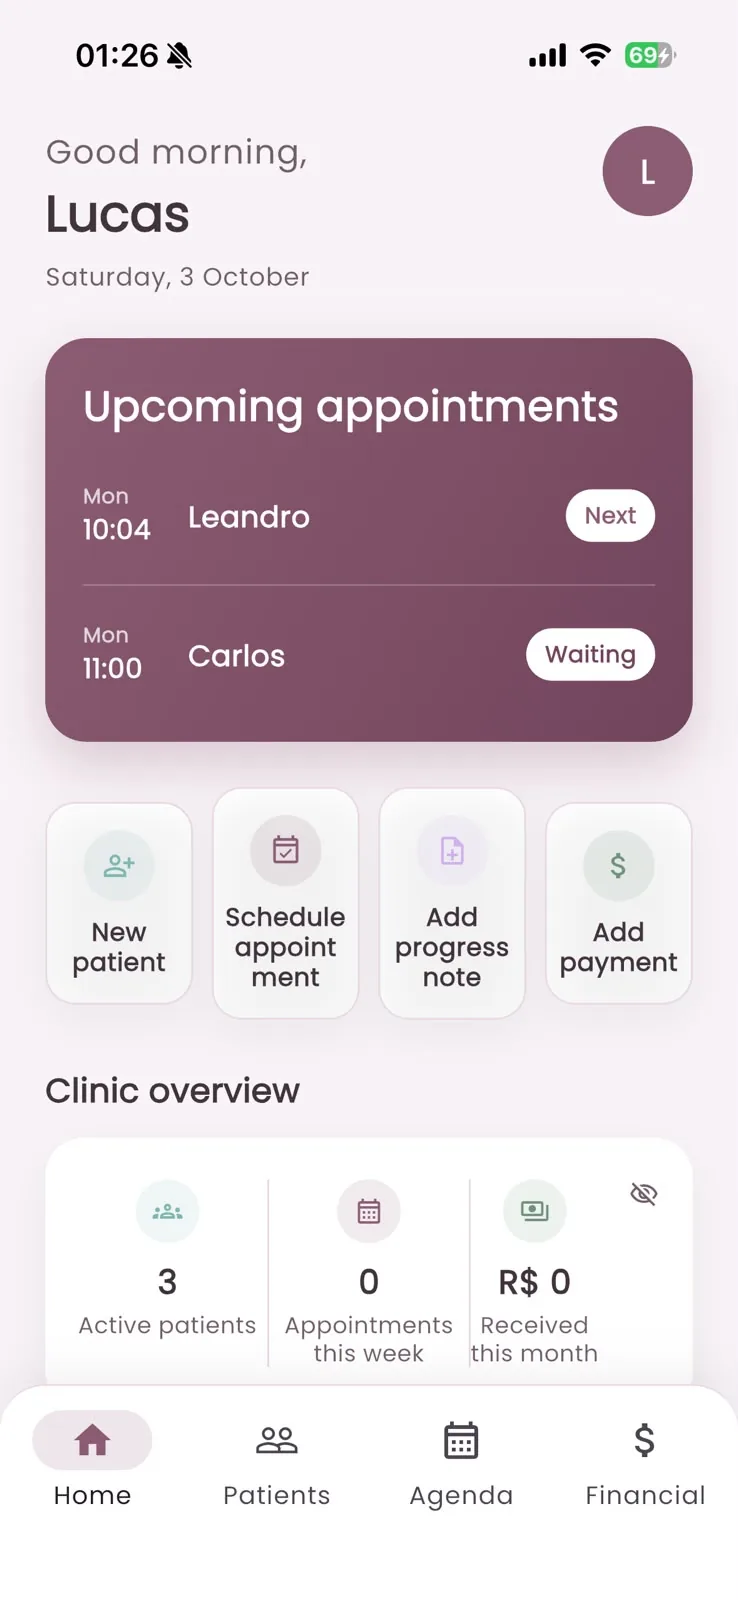
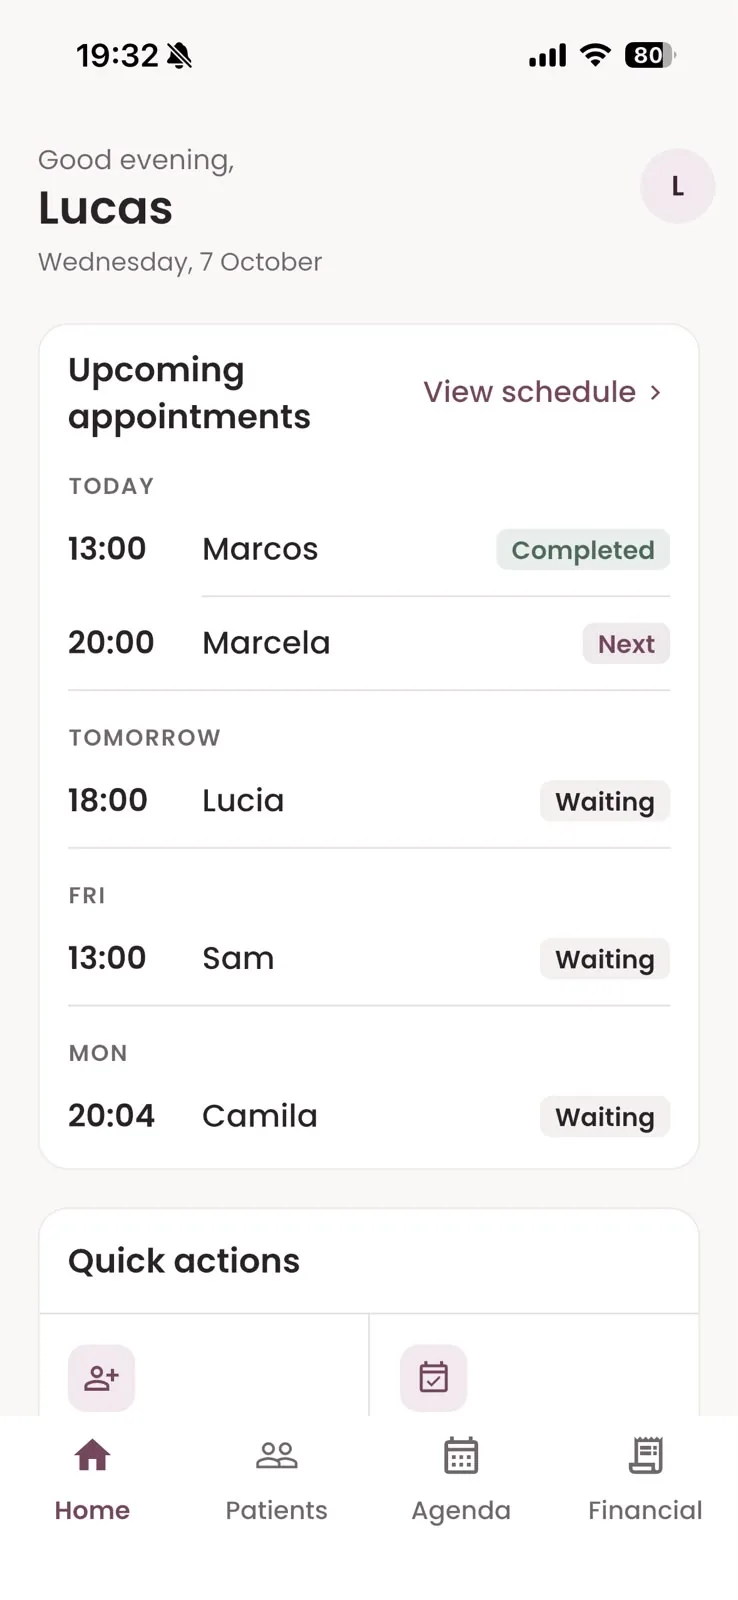
Case studies: La Pelve home and patients screens in English and Spanish

diff --git a/tests/i18n.test.js b/tests/i18n.test.js
@@ -166,7 +166,7 @@ check(["pt-BR", "en", "es"].every(function (l) { return Shots.slotFor("aprovaura
 check(Shots.blockFor("matchqueue", "b2", "en").length === 3 && Shots.blockFor("matchqueue", "b2", "pt-BR").length === 0, "match queue b2 só em en");
 check(Shots.slotFor("lapelve", "home", "en").src.indexOf("/screens/en/home.webp") > 0, "la pelve home en usa a versão en");
 check(Shots.slotFor("lapelve", "home", "pt-BR").src.indexOf("/screens/pt-BR/home.webp") > 0, "la pelve home pt-BR usa a versão pt-BR");
-check(Shots.slotFor("lapelve", "home", "es") === null, "la pelve home es inexistente → null (sem fallback)");
+check(Shots.slotFor("lapelve", "login", "es") === null, "la pelve login es inexistente → null (sem fallback)");
 var model = Shots.buildScreenshots("fanhub", "b2", function (k, v, l) { return D[l][k]; });
 check(model["pt-BR"].length === 12 && Shots.blockFor("fanhub", "b3", "pt-BR").length === 11 && Shots.blockFor("fanhub", "b4", "pt-BR").length === 7 && Shots.blockFor("fanhub", "b5", "pt-BR").length === 10 && Shots.blockFor("fanhub", "b5", "en").length === 10 && model.en.length === 12 && Shots.blockFor("fanhub", "b3", "en").length === 11 && Shots.blockFor("fanhub", "b4", "en").map(function (s) { return s.id; }).join() === "tickets,ticket-sectors,purchase,purchased,my-tickets,ticket,member-signup" && model.es.length === 12 && Shots.blockFor("fanhub", "b3", "es").length === 11 && Shots.blockFor("fanhub", "b4", "es").map(function (s) { return s.id; }).join() === "tickets,ticket-sectors,purchase,purchased,my-tickets,ticket,member-signup" && Shots.blockFor("fanhub", "b5", "es").length === 10, "modelo por locale do fan hub (pt-BR e es completos; en também completo)");
 check(["play", "queue-search", "teams-explore", "central", "players", "player-detail", "market"].every(function (s) { return Shots.slotFor("matchqueue", s, "es") && fs.existsSync(path.join(root, "assets/img/match-queue/screens/es", s + ".webp")); }), "match queue: telas em espanhol existem no manifesto e em disco");

diff --git a/assets/js/screenshots-data.js b/assets/js/screenshots-data.js
@@ -1462,7 +1462,8 @@
       "home": {
         "locales": [
           "pt-BR",
-          "en"
+          "en",
+          "es"
         ],
         "dims": {
           "pt-BR": [
@@ -1470,6 +1471,10 @@
             2000
           ],
           "en": [
+            738,
+            1600
+          ],
+          "es": [
             738,
             1600
           ]
@@ -1510,12 +1515,22 @@
       },
       "patients": {
         "locales": [
-          "pt-BR"
+          "pt-BR",
+          "en",
+          "es"
         ],
         "dims": {
           "pt-BR": [
             924,
             2000
+          ],
+          "en": [
+            738,
+            1600
+          ],
+          "es": [
+            738,
+            1600
           ]
         }
       }

diff --git a/assets/i18n/es.js b/assets/i18n/es.js
@@ -565,7 +565,7 @@
   "shots.lapelve.patient-form.alt": "Registro de paciente por etapas, paso 1 de 9: datos personales",
   "shots.lapelve.patient-form.caption": "Anamnesis guiada en 9 pasos, con barra de progreso.",
   "shots.lapelve.patient-form.title": "Registro por etapas",
-  "shots.lapelve.patients.alt": "La Pelve: pantalla Pacientes con estado vacío y botón Nuevo paciente",
+  "shots.lapelve.patients.alt": "La Pelve: pantalla Pacientes con la lista de pacientes y un botón para agregar uno nuevo",
   "shots.lapelve.patients.caption": "Registro y gestión de pacientes en un solo lugar.",
   "shots.lapelve.patients.title": "Pacientes",
   "shots.lapelve.schedule.alt": "Agenda con las atenciones del día y botón para crear una atención",

diff --git a/assets/i18n/en.js b/assets/i18n/en.js
@@ -565,7 +565,7 @@
   "shots.lapelve.patient-form.alt": "Step-by-step patient registration, step 1 of 9: personal data",
   "shots.lapelve.patient-form.caption": "Guided anamnesis in 9 steps, with a progress bar.",
   "shots.lapelve.patient-form.title": "Step-by-step registration",
-  "shots.lapelve.patients.alt": "La Pelve: Patients screen with an empty state and a New patient button",
+  "shots.lapelve.patients.alt": "La Pelve: Patients screen with the patient list and a button to add a new patient",
   "shots.lapelve.patients.caption": "Patient registration and management in one place.",
   "shots.lapelve.patients.title": "Patients",
   "shots.lapelve.schedule.alt": "Schedule with the day's appointments and a button to create an appointment",
